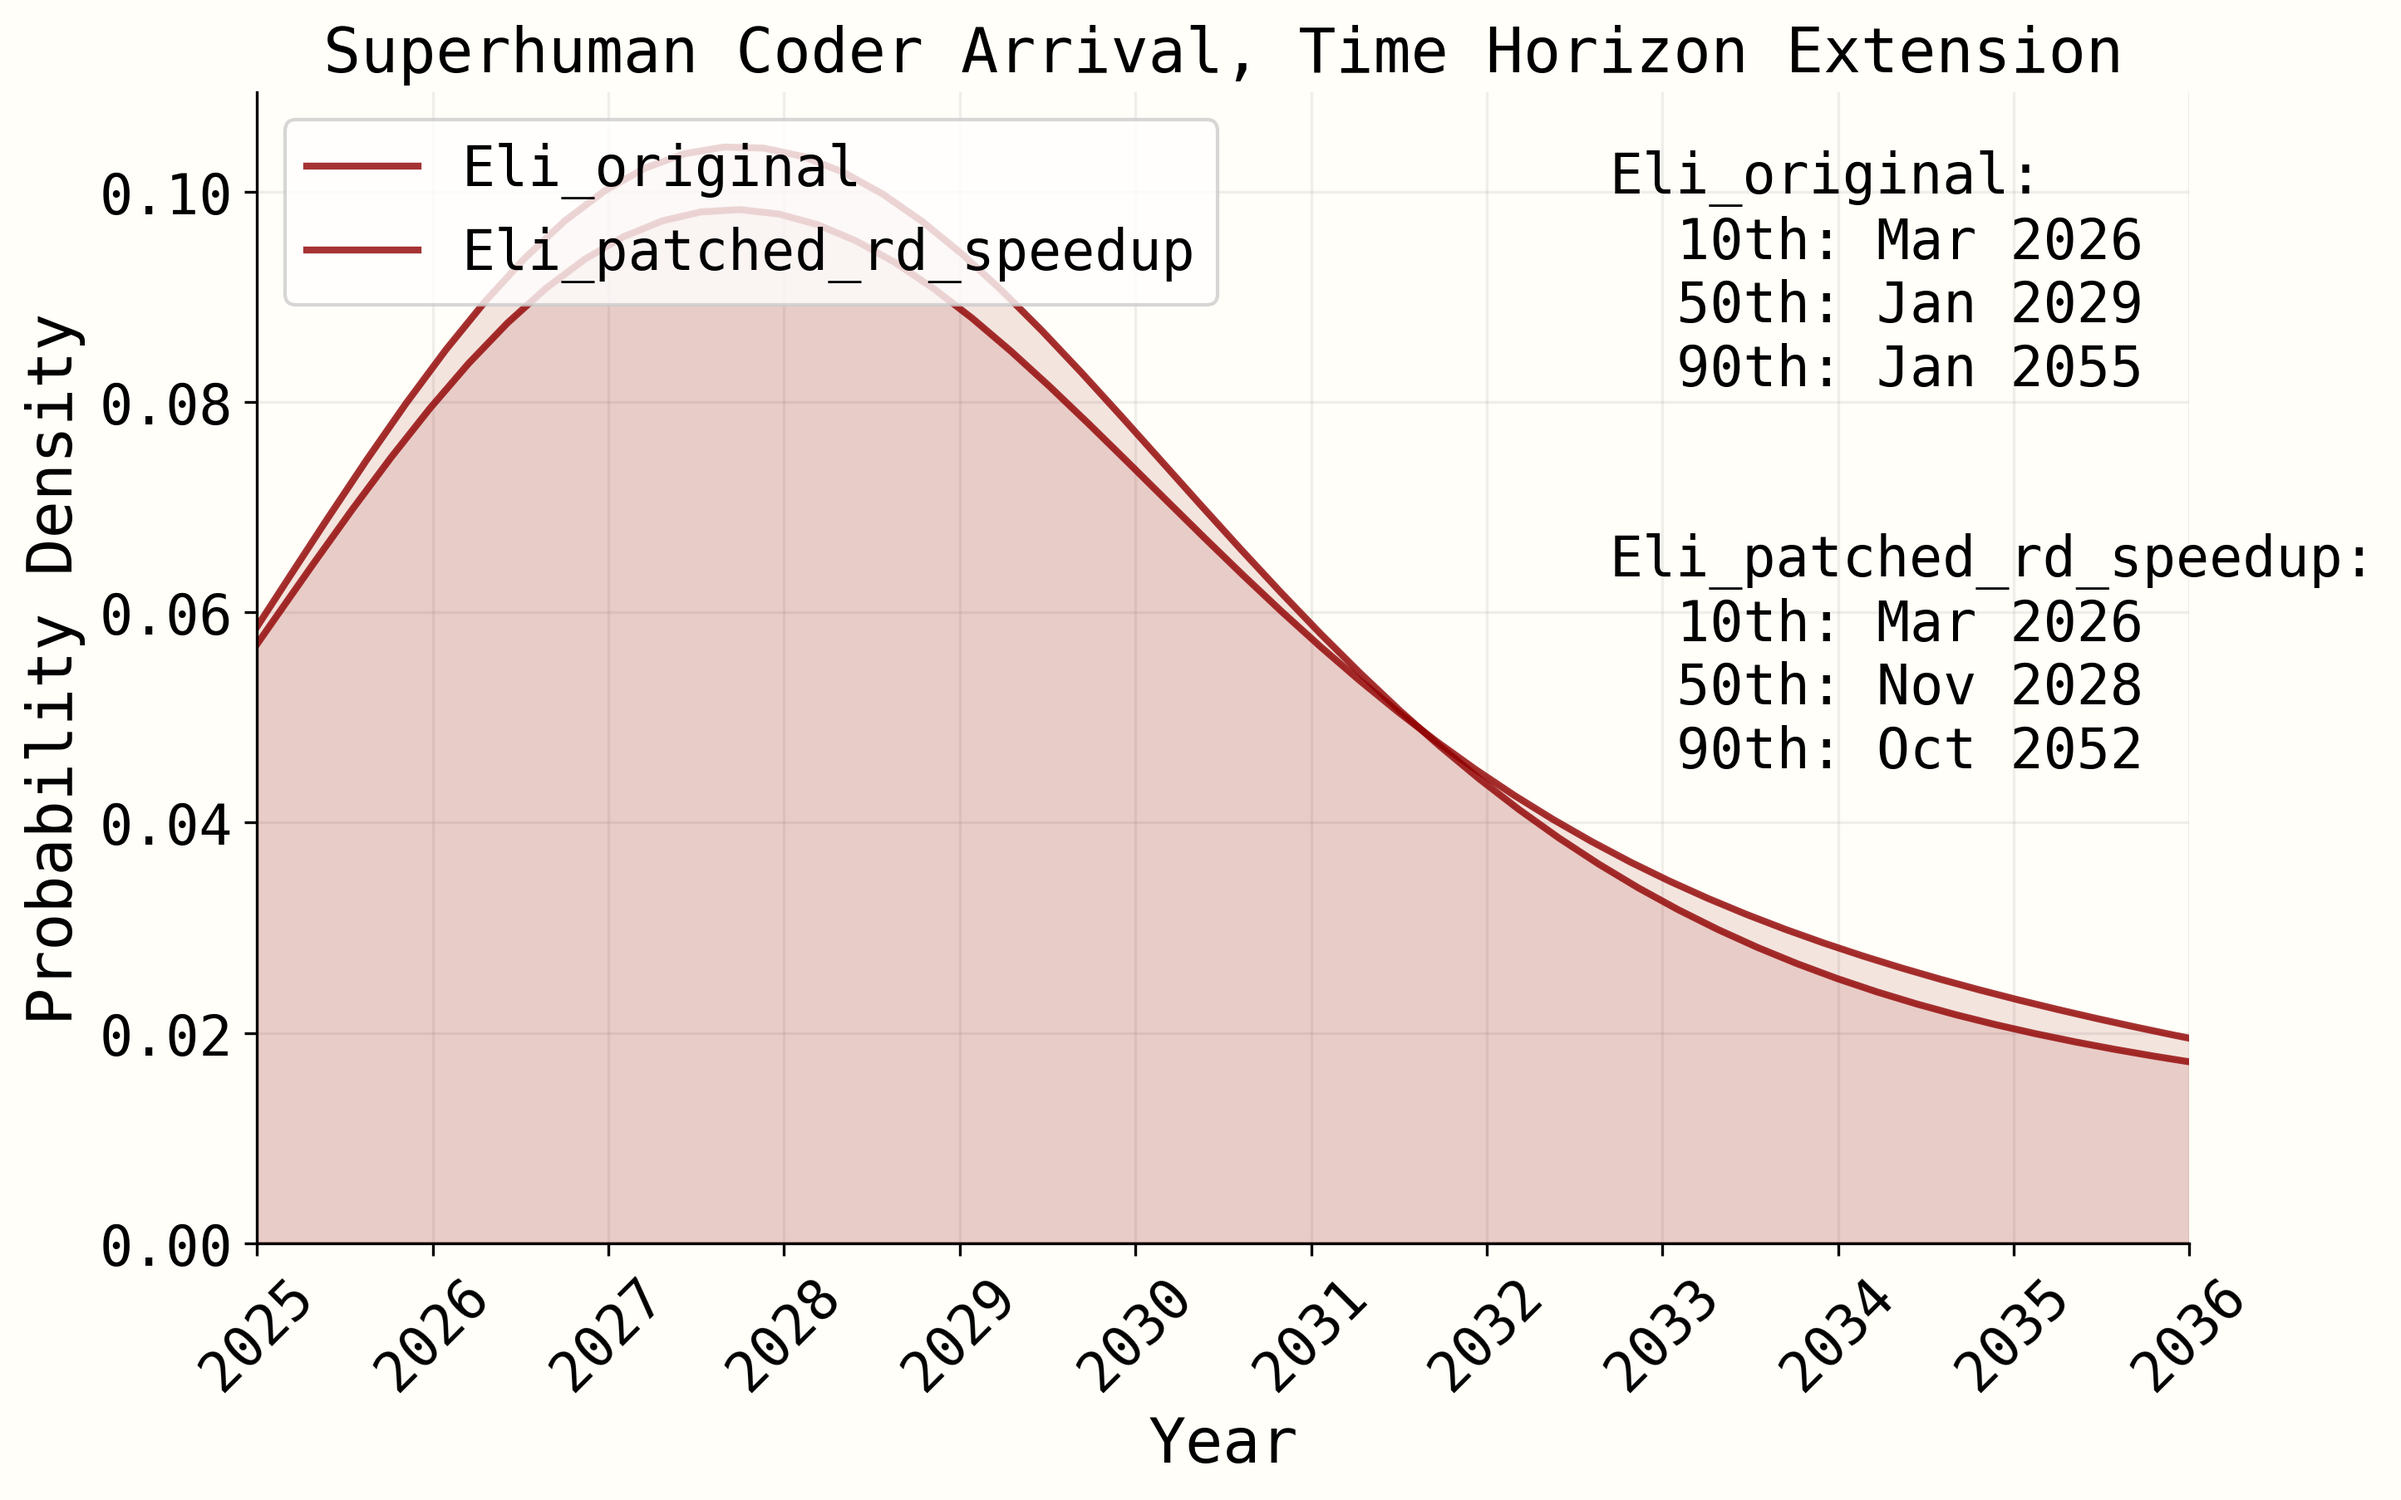
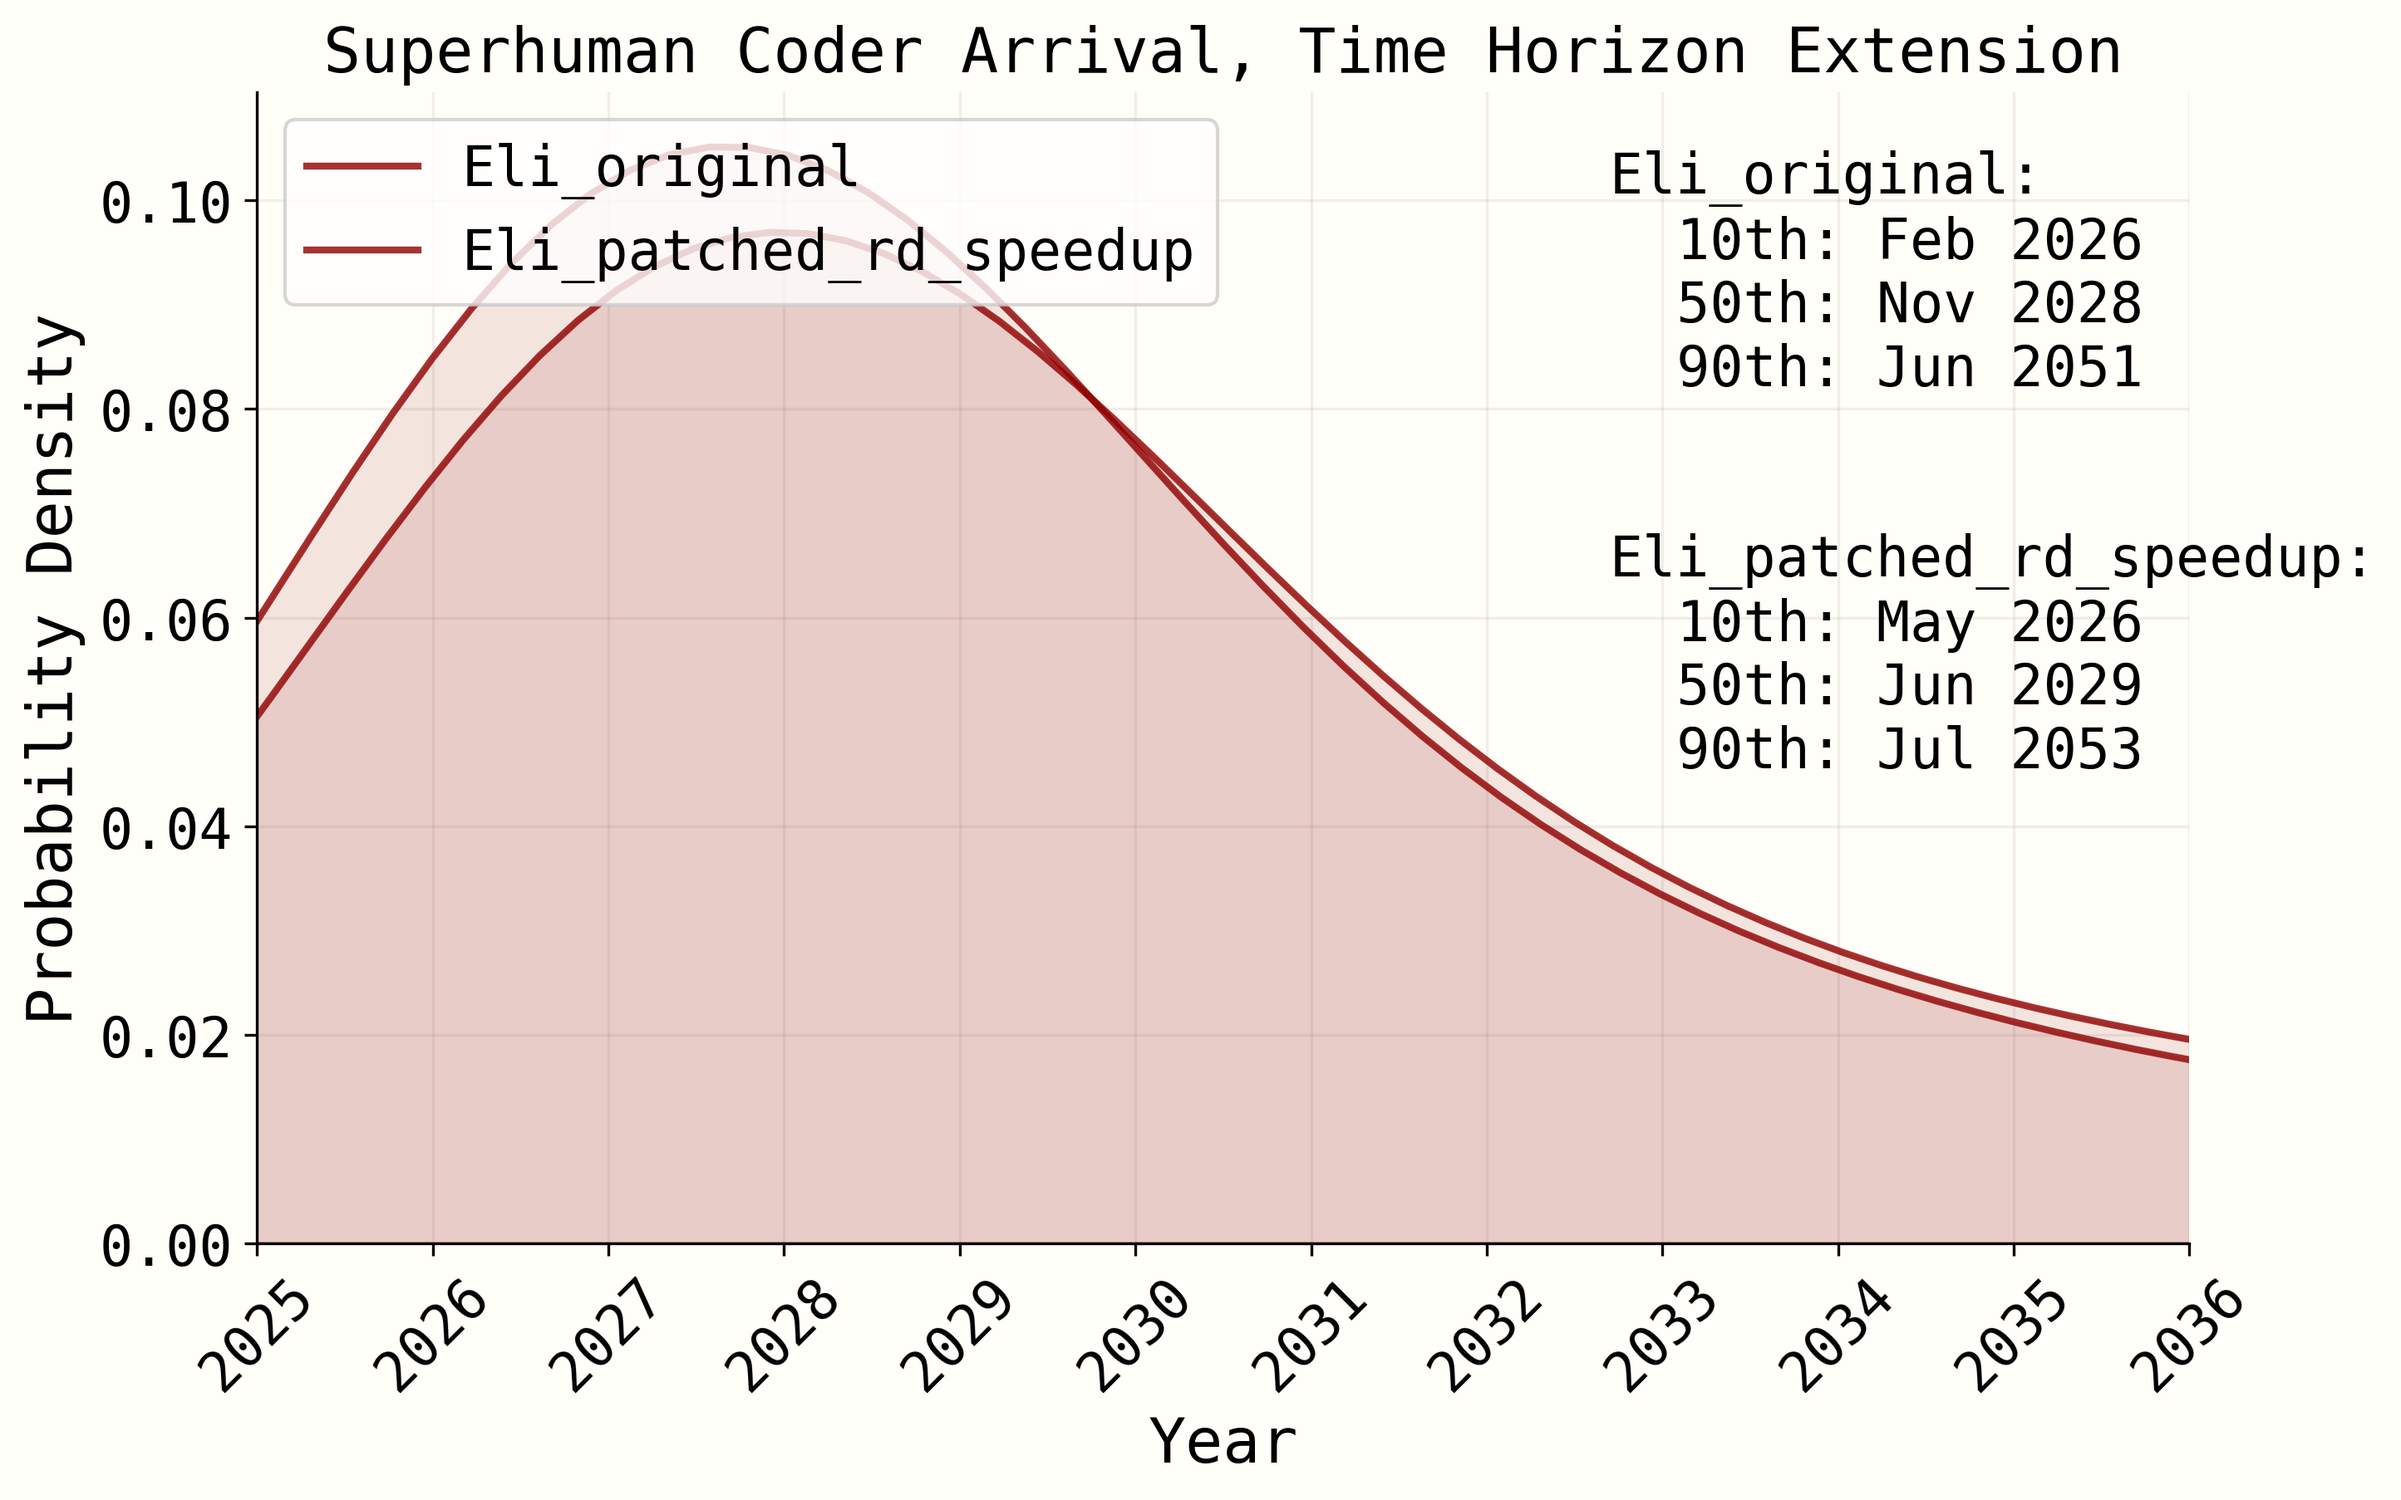
fix may update R&D patch

diff --git a/timelines_may_2025_update/simple_forecasting_timelines.py b/timelines_may_2025_update/simple_forecasting_timelines.py
@@ -137,7 +137,13 @@ def get_distribution_samples(config: dict, n_sims: int, correlation: float = 0.7
     
     # Add subexponential growth parameter
     samples["sub_doubling_growth_fraction"] = config["distributions"]["sub_doubling_growth_fraction"]
-    
+
+    samples["patch_rd_speedup"] = config.get("patch_rd_speedup", False)
+    if samples["patch_rd_speedup"]:
+        print("Using patched RD speedup")
+    else:
+        print("Using original RD speedup")
+
     return samples
 
 def calculate_base_time(samples: dict, current_horizon: float) -> np.ndarray:
@@ -313,11 +319,10 @@ def calculate_sc_arrival_year(samples: dict, current_horizon: float, dt: float, 
             progress_fraction = progress / base_time_in_months[i]
             
             # Calculate software speedup based on intermediate speedup s(interpolate between present and SC rates)
-            # if forecaster_config.get("patch_rd_speedup", False):
-            #     software_prog_multiplier = 1 + (samples["present_prog_multiplier"][i]) * ((samples["SC_prog_multiplier"][i])/(samples["present_prog_multiplier"][i])) ** progress_fraction
-            # else:
-            #     software_prog_multiplier = (1 + samples["present_prog_multiplier"][i]) * ((1 + samples["SC_prog_multiplier"][i])/(1 + samples["present_prog_multiplier"][i])) ** progress_fraction
-            software_prog_multiplier = (1 + samples["present_prog_multiplier"][i]) * ((1 + samples["SC_prog_multiplier"][i])/(1 + samples["present_prog_multiplier"][i])) ** progress_fraction
+            if samples["patch_rd_speedup"]:
+                software_prog_multiplier = 1 + (samples["present_prog_multiplier"][i]) * ((samples["SC_prog_multiplier"][i])/(samples["present_prog_multiplier"][i])) ** progress_fraction
+            else:
+                software_prog_multiplier = (1 + samples["present_prog_multiplier"][i]) * ((1 + samples["SC_prog_multiplier"][i])/(1 + samples["present_prog_multiplier"][i])) ** progress_fraction
 
 
             # Get current labor growth rate from schedule
